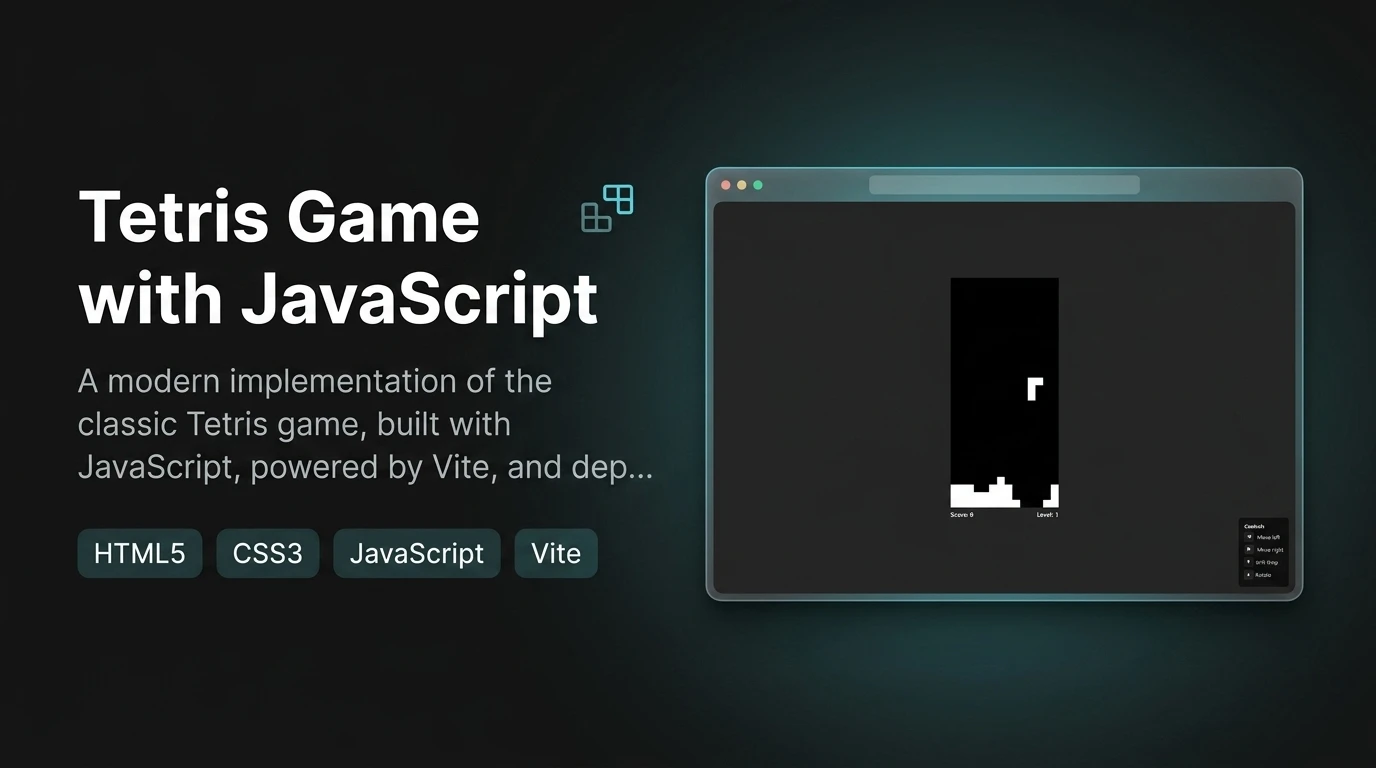
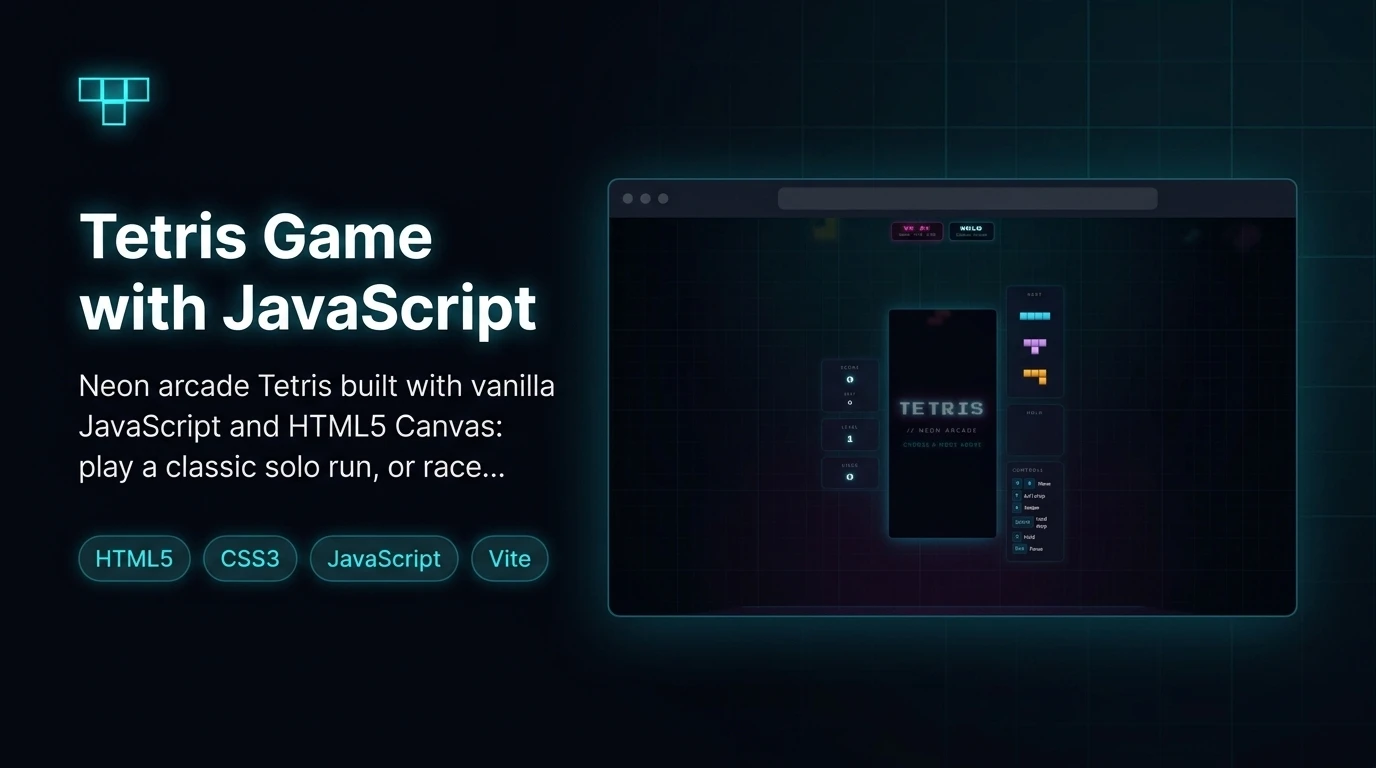
docs: sync README from studio

diff --git a/README.md b/README.md
@@ -10,7 +10,7 @@
   <a href='/'>
     <img
       src='screenshot.webp'
-      alt='Screenshot of the app'
+      alt='Neon arcade Tetris with score, level and lines panels, next-piece and hold previews, a controls key legend, and Solo or VS AI mode buttons.'
       width='100%'
     />
   </a>
@@ -30,7 +30,7 @@
 </div>
 
 <div align='center'>
-  Neon arcade Tetris built with vanilla JavaScript and HTML5 Canvas. Play a classic solo run or race a Dellacherie-driven AI in Doom mode — ×10 gravity, a shared piece feed, and a three-minute clock.
+  Neon arcade Tetris built with vanilla JavaScript and HTML5 Canvas. Play classic solo with a 7-bag randomizer, hold, ghost piece, wall kicks and DAS auto-shift, or take on Doom mode — a three-minute race against a Dellacherie-driven AI at ×10 gravity, with both boards fed exactly the same piece sequence.
 
   [Demo][demo-link] · [Report issue](/issues) · [Suggest something](/issues)
 </div>
